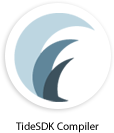
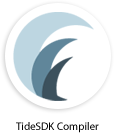
minor image tweak and copy adjustment

diff --git a/source/index.html b/source/index.html
@@ -219,7 +219,7 @@
 </div>
 
 <div class="wrapper">
-    <h2>Fresh out of the press <span>read our TideSDK blogazine</span></h2>
+    <h2>Hot off the press <span>read our TideSDK blogazine</span></h2>
 
     <div class="blogposts cf">
         <div class="first">
